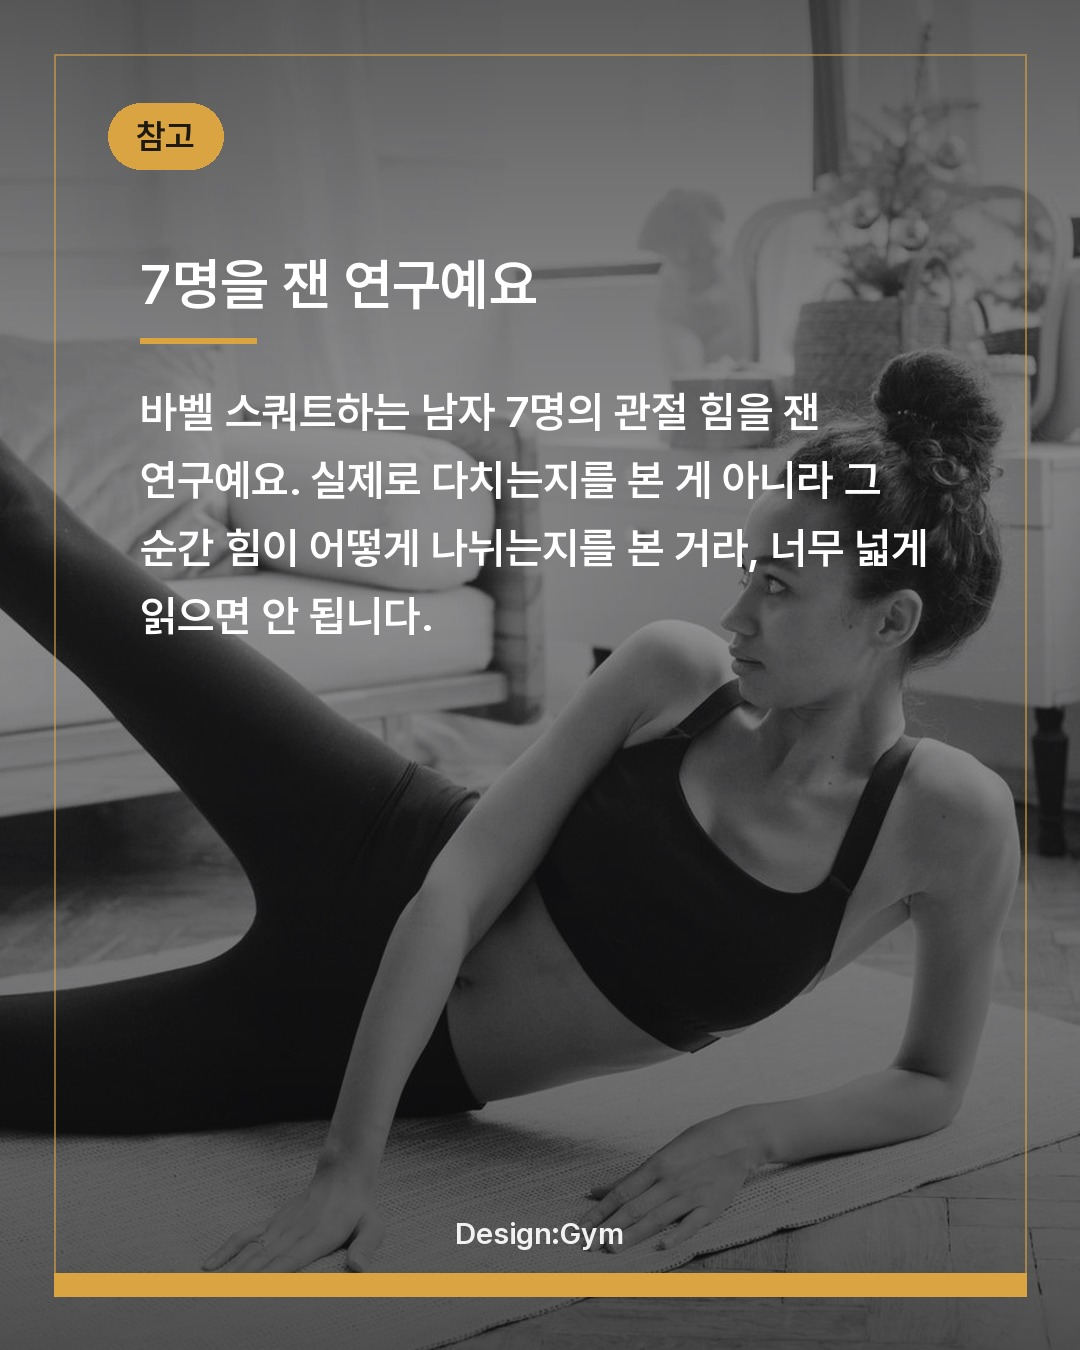
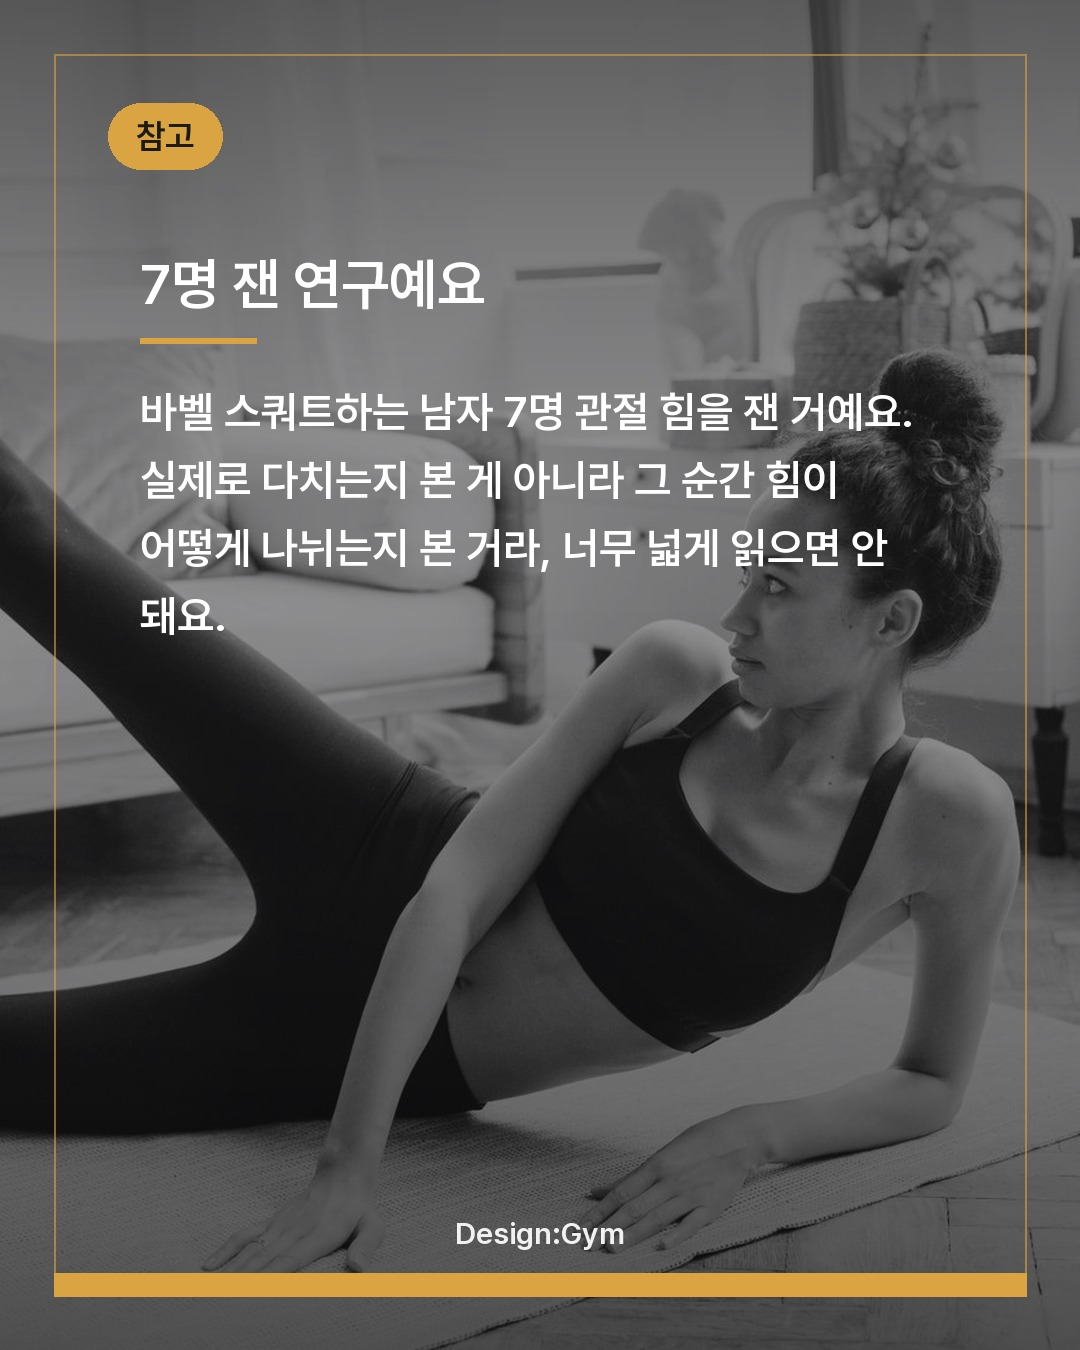
✍ 말투 재교정 — 말하듯 쓰기(B 수위)
- 습니다·입니다 전면 제거, ~요/~죠/~거든요/~잖아요로 통일 (표지 제외)
- 문장 짧게 끊고 근데·그러니까 같은 구어 연결어로 교체
- RULES 7-9 갱신: 금지 표현 대조표 + 빌드 전 '습니다' 0건 확인

diff --git a/RULES_CEO_CAROUSEL.md b/RULES_CEO_CAROUSEL.md
@@ -176,18 +176,25 @@
 - ✗ 근육통이 젖산 때문인가 / 유연성은 왜 늘어나나 / 러닝과 사망률
 - ✓ 운동 며칠 쉬면 근력 빠지나 / 아침이 나은가 저녁이 나은가 / 무릎이 발끝을 넘어도 되나
 
-**7-9. 슬라이드·블로그도 캡션과 같은 말투로 쓴다** (2026-08-31 사장 반려)
+**7-9. 말하듯 쓴다 — 문어체 금지** (2026-08-31 사장 반려 2회)
 
-반려 사유: "보고서도 아닌 게 구어체도 아닌 게 이상하다."
-원인은 연구 요약문을 써놓고 어미만 존댓말로 바꾼 것. 문장의 주어가 전부 연구와 수치였다.
+1차 반려: "보고서도 아닌 게 구어체도 아닌 게 이상하다."
+2차 반려: "이것보다 더 자연스러운 구어체로." 사장이 직접 고른 수위는 아래 B다.
 
-| 고칠 것 | ✗ | ✓ |
+**어미에서 `습니다`·`입니다`를 전부 없앤다.** `~요 / ~죠 / ~거든요 / ~잖아요 / ~더라고요 / ~고요`만 쓴다.
+표지 문구는 예외 — 표지는 짧아야 하므로 `~됩니다`도 허용한다.
+
+| | ✗ 쓰지 말 것 | ✓ 이렇게 |
 |---|---|---|
-| 주어를 사람으로 | 근력과 근육량이 대체로 유지됐습니다 | 4주 안쪽으로 쉬면 힘은 거의 그대로예요 |
-| 수동·명사화 제거 | 체온이 오르기 때문으로 봅니다 | 낮 동안 체온이 올라서 그래요 |
-| 조건절 풀기 | 4주 미만으로 쉰 경우 | 4주 안쪽으로 쉬면 |
-| 논문 메타 서술 금지 | 리뷰는 ~라고 스스로 밝힙니다 | 연구마다 제각각이라 딱 잘라 말하긴 어려워요 |
+| 어미 | 근력과 근육량이 유지됐습니다 | 한 달까지는 쉬어도 티가 안 나요 |
+| 조건절 | 4주 미만으로 쉰 경우 | 한 달까지는 쉬어도 |
+| 수동·추정 | 체온이 오르기 때문으로 봅니다 | 낮에 체온이 올라서 그렇거든요 |
+| 논문 메타 | 리뷰는 ~라고 밝힙니다 | 연구마다 제각각이라 딱 잘라 말하긴 어려워요 |
+| 연결어 | 다만 / 즉 / 또한 / 반대로 | 근데 / 그러니까 / 그래서 |
+| 명사구 | 손해가 크지 않다는 쪽으로 결과가 모입니다 | 큰 손해는 아니라는 쪽이에요 |
 
-**어미는 캡션과 동일하게 `~해요 / ~더라고요 / ~거든요 / ~예요`.**
-`~됐습니다 / ~입니다 / ~로 봅니다 / ~한 경우`는 쓰지 않는다.
+**문장을 짧게 끊는다.** 한 문장에 절을 두 개 이상 넣지 않는다.
+독자에게 말을 거는 표현(`~잖아요`, `~인데요`, `저도 그래요`)을 섞는다.
+
 숫자와 출처는 그대로 살린다 — 바꾸는 건 말투지 근거가 아니다.
+빌드 전 슬라이드·캡션·블로그에서 `습니다`를 검색해 0건인지 확인할 것(표지 제외).
